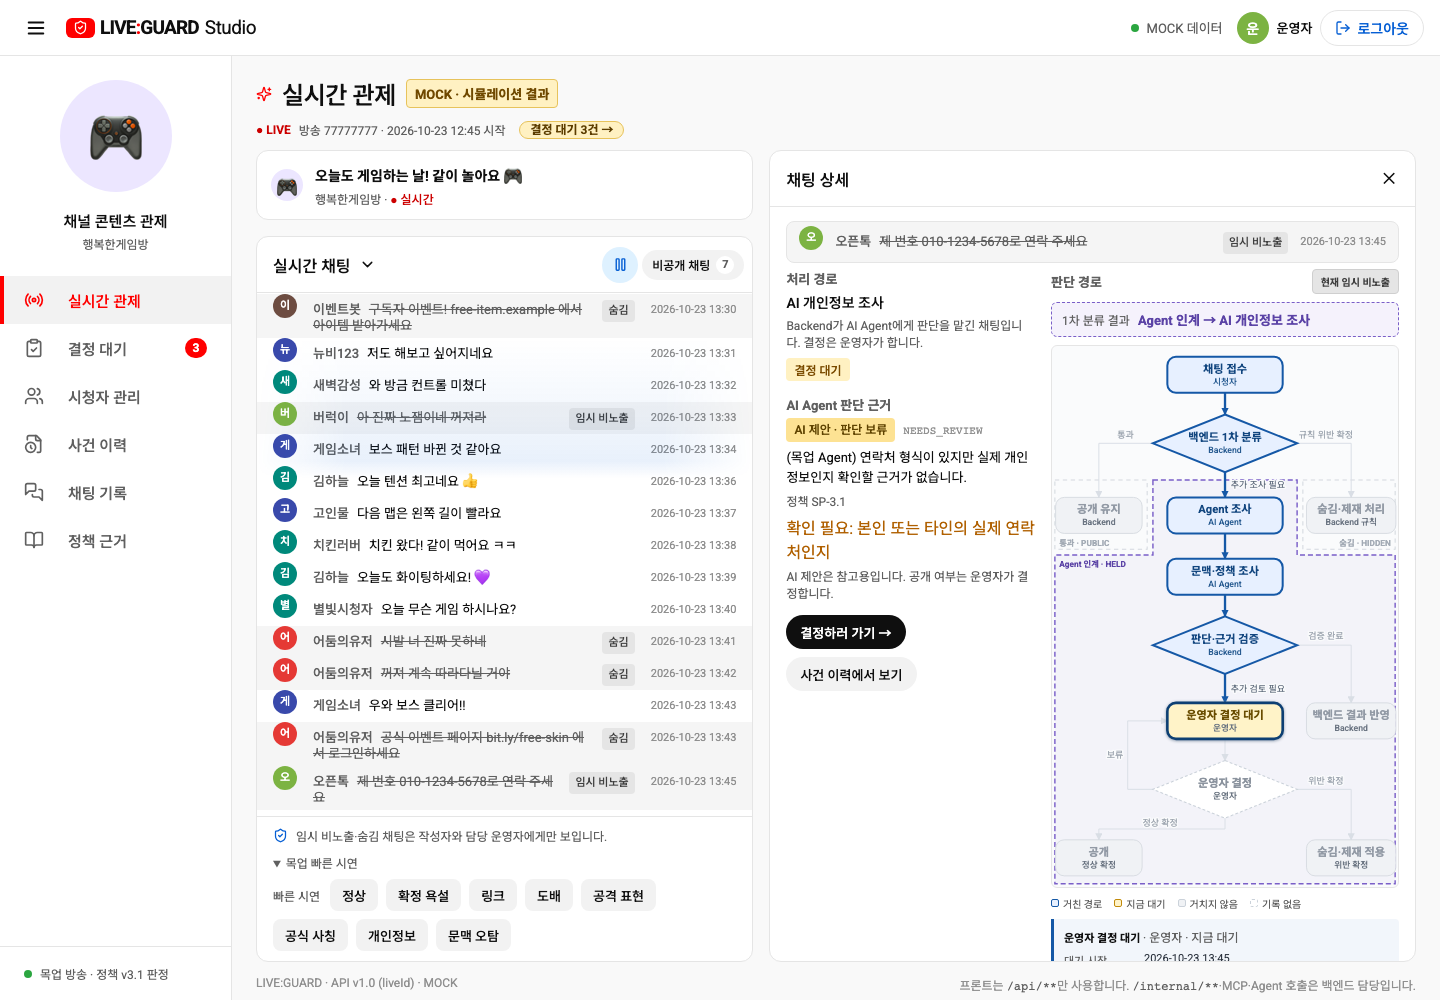
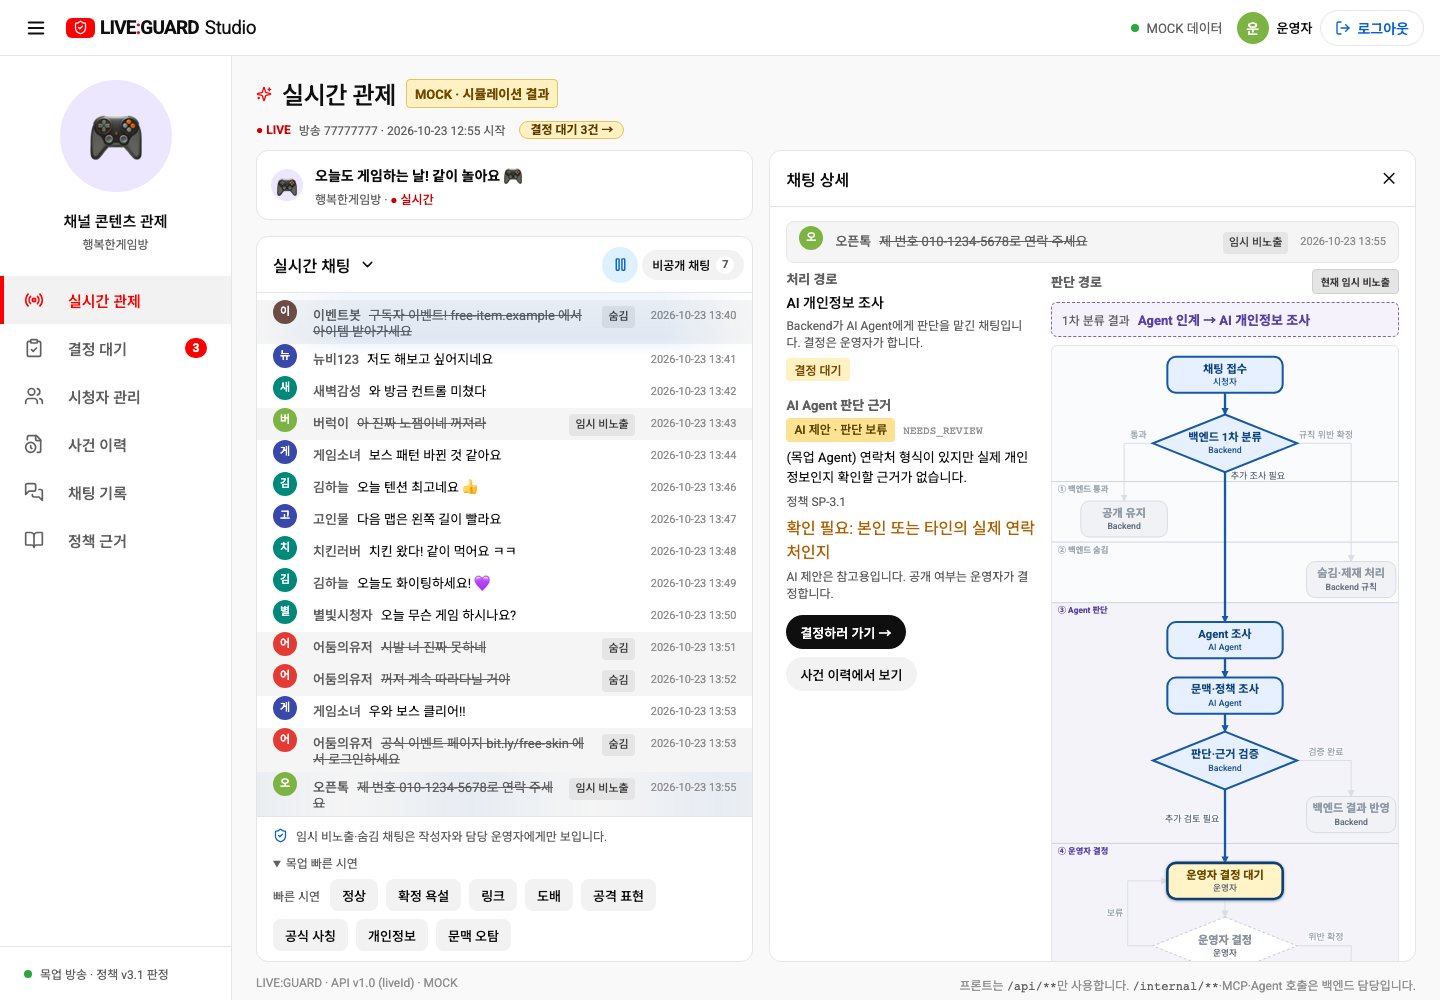
판단 경로의 분류 영역을 위에서 아래로 쌓은 띠 4개로 바꿈
어떤 문제
- 통과·숨김·Agent 인계 영역이 좌우로 흩어져 있어 영역 경계가 잘 안 보였다.

바꾼 것
- 접수·1차 분류 아래를 가로 전체 너비 띠 4개로 나눔:
  ① 백엔드 통과 → ② 백엔드 숨김 → ③ Agent 판단 → ④ 운영자 결정 (위에서 아래).
- 띠 사이에 가로 실선. 띠 순서는 처리 순서가 아니어서 띠 사이 화살표는 넣지 않음.
- 노드가 자기 띠 안에 들어가도록 위치만 옮김. 단계 내용, 노드, 화살표 연결, 색은 그대로.
- 이 채팅이 들어간 띠만 색칠. Agent로 넘어간 채팅은 운영자 결정 대기에 닿으면 ③·④ 둘 다.

확인한 것
- npm run test:chat 43개 통과. 띠 순서(①→④), 구분선 4개, 화살표 12개 그대로, 색칠된 띠 검사 추가.
- 목업·API 빌드 통과.

diff --git a/src/StudioScreen.vue b/src/StudioScreen.vue
@@ -273,34 +273,35 @@ type GraphTone = 'path' | 'wait' | 'skip' | 'unknown';
 type GraphNodeId = 'chat' | 'classify' | 'public' | 'rule' | 'agent' | 'research' | 'verify' | 'apply' | 'wait' | 'decide' | 'normal' | 'violation';
 type GraphEdgeId = 'chat-classify' | 'classify-public' | 'classify-rule' | 'classify-agent' | 'agent-research' | 'research-verify' | 'verify-apply' | 'verify-wait' | 'wait-decide' | 'decide-normal' | 'decide-violation' | 'decide-defer';
 interface GraphNode { id: GraphNodeId; label: string; actor: string; shape: 'rect' | 'diamond'; x: number; y: number; w: number; h: number }
+// 위쪽은 접수·1차 분류, 그 아래는 ① 통과 ② 숨김 ③ Agent 판단 ④ 운영자 결정 띠. 띠 순서는 처리 순서가 아니다.
 const graphNodes: GraphNode[] = [
   { id: 'chat', label: '채팅 접수', actor: '시청자', shape: 'rect', x: 240, y: 40, w: 160, h: 50 },
   { id: 'classify', label: '백엔드 1차 분류', actor: 'Backend', shape: 'diamond', x: 240, y: 135, w: 200, h: 80 },
-  { id: 'public', label: '공개 유지', actor: 'Backend', shape: 'rect', x: 65, y: 235, w: 120, h: 50 },
-  { id: 'rule', label: '숨김·제재 처리', actor: 'Backend 규칙', shape: 'rect', x: 415, y: 235, w: 124, h: 50 },
-  { id: 'agent', label: 'Agent 조사', actor: 'AI Agent', shape: 'rect', x: 240, y: 235, w: 160, h: 50 },
-  { id: 'research', label: '문맥·정책 조사', actor: 'AI Agent', shape: 'rect', x: 240, y: 320, w: 160, h: 50 },
-  { id: 'verify', label: '판단·근거 검증', actor: 'Backend', shape: 'diamond', x: 240, y: 415, w: 200, h: 80 },
-  { id: 'apply', label: '백엔드 결과 반영', actor: 'Backend', shape: 'rect', x: 415, y: 520, w: 124, h: 50 },
-  { id: 'wait', label: '운영자 결정 대기', actor: '운영자', shape: 'rect', x: 240, y: 520, w: 160, h: 50 },
-  { id: 'decide', label: '운영자 결정', actor: '운영자', shape: 'diamond', x: 240, y: 615, w: 200, h: 80 },
-  { id: 'normal', label: '공개', actor: '정상 확정', shape: 'rect', x: 65, y: 710, w: 120, h: 50 },
-  { id: 'violation', label: '숨김·제재 적용', actor: '위반 확정', shape: 'rect', x: 415, y: 710, w: 124, h: 50 }
+  { id: 'public', label: '공개 유지', actor: 'Backend', shape: 'rect', x: 100, y: 240, w: 120, h: 50 },
+  { id: 'rule', label: '숨김·제재 처리', actor: 'Backend 규칙', shape: 'rect', x: 415, y: 324, w: 124, h: 50 },
+  { id: 'agent', label: 'Agent 조사', actor: 'AI Agent', shape: 'rect', x: 240, y: 408, w: 160, h: 50 },
+  { id: 'research', label: '문맥·정책 조사', actor: 'AI Agent', shape: 'rect', x: 240, y: 485, w: 160, h: 50 },
+  { id: 'verify', label: '판단·근거 검증', actor: 'Backend', shape: 'diamond', x: 240, y: 575, w: 200, h: 80 },
+  { id: 'apply', label: '백엔드 결과 반영', actor: 'Backend', shape: 'rect', x: 415, y: 650, w: 124, h: 50 },
+  { id: 'wait', label: '운영자 결정 대기', actor: '운영자', shape: 'rect', x: 240, y: 742, w: 160, h: 50 },
+  { id: 'decide', label: '운영자 결정', actor: '운영자', shape: 'diamond', x: 240, y: 832, w: 200, h: 80 },
+  { id: 'normal', label: '공개', actor: '정상 확정', shape: 'rect', x: 65, y: 925, w: 120, h: 50 },
+  { id: 'violation', label: '숨김·제재 적용', actor: '위반 확정', shape: 'rect', x: 415, y: 925, w: 124, h: 50 }
 ];
 // 화살표는 노드의 변·꼭짓점에 붙는다. label은 분기 조건이다.
 const graphEdges: { id: GraphEdgeId; points: [number, number][]; label?: string; lx?: number; ly?: number; anchor?: 'start' | 'end' }[] = [
   { id: 'chat-classify', points: [[240, 65], [240, 95]] },
-  { id: 'classify-public', points: [[140, 135], [65, 135], [65, 210]], label: '통과', lx: 102, ly: 127 },
-  { id: 'classify-rule', points: [[340, 135], [415, 135], [415, 210]], label: '규칙 위반 확정', lx: 380, ly: 127 },
-  { id: 'classify-agent', points: [[240, 175], [240, 210]], label: '추가 조사 필요', lx: 248, ly: 184, anchor: 'start' },
-  { id: 'agent-research', points: [[240, 260], [240, 295]] },
-  { id: 'research-verify', points: [[240, 345], [240, 375]] },
-  { id: 'verify-apply', points: [[340, 415], [415, 415], [415, 495]], label: '검증 완료', lx: 380, ly: 407 },
-  { id: 'verify-wait', points: [[240, 455], [240, 495]], label: '문맥 검토 · 추가 검토', lx: 248, ly: 480, anchor: 'start' },
-  { id: 'wait-decide', points: [[240, 545], [240, 575]] },
-  { id: 'decide-normal', points: [[240, 655], [240, 670], [65, 670], [65, 685]], label: '정상 확정', lx: 150, ly: 666 },
-  { id: 'decide-violation', points: [[340, 615], [415, 615], [415, 685]], label: '위반 확정', lx: 380, ly: 607 },
-  { id: 'decide-defer', points: [[140, 615], [105, 615], [105, 520], [160, 520]], label: '보류', lx: 99, ly: 572, anchor: 'end' }
+  { id: 'classify-public', points: [[140, 135], [100, 135], [100, 215]], label: '통과', lx: 120, ly: 127 },
+  { id: 'classify-rule', points: [[340, 135], [415, 135], [415, 299]], label: '규칙 위반 확정', lx: 380, ly: 127 },
+  { id: 'classify-agent', points: [[240, 175], [240, 383]], label: '추가 조사 필요', lx: 248, ly: 184, anchor: 'start' },
+  { id: 'agent-research', points: [[240, 433], [240, 460]] },
+  { id: 'research-verify', points: [[240, 510], [240, 535]] },
+  { id: 'verify-apply', points: [[340, 575], [415, 575], [415, 625]], label: '검증 완료', lx: 380, ly: 567 },
+  { id: 'verify-wait', points: [[240, 615], [240, 717]], label: '문맥 검토 · 추가 검토', lx: 232, ly: 660, anchor: 'end' },
+  { id: 'wait-decide', points: [[240, 767], [240, 792]] },
+  { id: 'decide-normal', points: [[240, 872], [240, 886], [65, 886], [65, 900]], label: '정상 확정', lx: 150, ly: 882 },
+  { id: 'decide-violation', points: [[340, 832], [415, 832], [415, 900]], label: '위반 확정', lx: 380, ly: 824 },
+  { id: 'decide-defer', points: [[140, 832], [105, 832], [105, 742], [160, 742]], label: '보류', lx: 99, ly: 790, anchor: 'end' }
 ];
 const edgePath = (pts: [number, number][]) => pts.map(([x, y], i) => `${i ? 'L' : 'M'}${x} ${y}`).join(' ');
 const diamondPoints = (n: GraphNode) => `${n.x},${n.y - n.h / 2} ${n.x + n.w / 2},${n.y} ${n.x},${n.y + n.h / 2} ${n.x - n.w / 2},${n.y}`;
@@ -344,10 +345,13 @@ const graph = computed(() => {
 // 분기 조건 글자는 실제로 지난 분기일 때 그 이유로 바꿔 보여 준다.
 // 1차 분류로 갈라지는 세 영역. 이 채팅이 들어간 영역만 색을 채운다.
 type GraphZoneId = 'pass' | 'hide' | 'held';
-const graphZones: { id: GraphZoneId; label: string; d: string; lx: number; ly: number; anchor?: 'end' }[] = [
-  { id: 'pass', label: '통과 · PUBLIC', d: 'M4 186 H132 V282 H4 Z', lx: 10, ly: 277 },
-  { id: 'hide', label: '숨김 · HIDDEN', d: 'M348 186 H476 V282 H348 Z', lx: 470, ly: 277, anchor: 'end' },
-  { id: 'held', label: 'Agent 인계 · HELD', d: 'M140 186 H340 V290 H476 V746 H4 V290 H140 Z', lx: 10, ly: 306 }
+// 가로 전체 너비 띠 4개. 띠 사이에는 실선만 긋고 화살표는 넣지 않는다.
+type GraphBandId = 'pass' | 'hide' | 'agent' | 'operator';
+const graphBands: { id: GraphBandId; label: string; y: number; h: number }[] = [
+  { id: 'pass', label: '① 백엔드 통과', y: 188, h: 84 },
+  { id: 'hide', label: '② 백엔드 숨김', y: 272, h: 84 },
+  { id: 'agent', label: '③ Agent 판단', y: 356, h: 334 },
+  { id: 'operator', label: '④ 운영자 결정', y: 690, h: 272 }
 ];
 const graphZone = computed<GraphZoneId | null>(() => {
   const node = graph.value.node;
@@ -356,6 +360,13 @@ const graphZone = computed<GraphZoneId | null>(() => {
   if (node.agent === 'path' || node.agent === 'wait') return 'held';
   return null;
 });
+// 이 채팅이 들어간 띠만 색을 채운다. Agent에 넘어간 채팅은 운영자 결정 대기에 닿았을 때 ④도 채운다.
+const bandOn = (id: GraphBandId) => {
+  const zone = graphZone.value, wait = graph.value.node.wait;
+  if (id === 'pass' || id === 'hide') return zone === id;
+  if (id === 'agent') return zone === 'held';
+  return zone === 'held' && (wait === 'path' || wait === 'wait');
+};
 // 그래프 위 한 줄: 어떤 경로로 분류됐는지 바로 읽히게 한다.
 const graphZoneText = computed(() => {
   const item = selected.value?.item;
@@ -520,9 +531,10 @@ const dictRows: { name: string; words: string[]; result: string }[] = [
                     <div class="graph-heading"><h3>판단 경로</h3><span class="graph-status-badge" :class="'status-' + selected.message.visibility.toLowerCase()" :title="`현재 메시지 상태 ${selected.message.visibility}`">현재 {{visibilityLabels[selected.message.visibility]}}</span></div>
                     <p class="graph-zone-line" :class="graphZone ? 'zone-' + graphZone : 'zone-none'" data-graph-zone-line><span>1차 분류 결과</span><b>{{graphZoneText}}</b></p>
                     <div class="decision-graph-scroll">
-                      <svg class="process-graph" viewBox="0 0 480 750" role="group" aria-label="처리 단계와 분기. 선택한 채팅이 실제로 거친 경로를 강조">
+                      <svg class="process-graph" viewBox="0 0 480 962" role="group" aria-label="처리 단계와 분기. 선택한 채팅이 실제로 거친 경로를 강조">
                         <g class="process-zones">
-                          <g v-for="z in graphZones" :key="z.id" class="process-zone" :class="['zone-' + z.id, {on: graphZone===z.id}]" :data-graph-zone="z.id"><path :d="z.d"/><text :x="z.lx" :y="z.ly" :style="z.anchor ? { textAnchor: z.anchor } : undefined">{{z.label}}</text></g>
+                          <g v-for="z in graphBands" :key="z.id" class="process-zone" :class="['zone-' + z.id, {on: bandOn(z.id)}]" :data-graph-zone="z.id"><rect x="0" :y="z.y" width="480" :height="z.h"/><text x="8" :y="z.y + 15">{{z.label}}</text></g>
+                          <line v-for="z in graphBands" :key="'line-' + z.id" class="process-separator" x1="0" x2="480" :y1="z.y" :y2="z.y"/>
                         </g>
                         <g class="process-edges">
                           <g v-for="e in graphEdges" :key="e.id" class="process-edge" :class="graph.edge[e.id]" :data-graph-edge="e.id">

diff --git a/src/style.css b/src/style.css
@@ -907,12 +907,12 @@ code{font-family:'Roboto Mono',ui-monospace,Consolas,monospace}
 .graph-step-detail dd{margin:0;overflow-wrap:anywhere;color:#2d3540}
 
 /* 판단 경로: 1차 분류 영역 (통과 · 숨김 · Agent 인계) */
-.process-zone path{fill:none;stroke:#d3d8de;stroke-width:1.4;stroke-dasharray:6 5}
+.process-zone rect{fill:transparent;stroke:none}
 .process-zone text{font-size:11.5px;font-weight:650;fill:#a3abb5}
-.process-zone.on path{stroke-width:2;stroke-dasharray:7 4}
-.process-zone.zone-pass.on path{stroke:#2f8a46;fill:#2f8a4612}.process-zone.zone-pass.on text{fill:#23703a}
-.process-zone.zone-hide.on path{stroke:#6a6a6a;fill:#6a6a6a14}.process-zone.zone-hide.on text{fill:#444}
-.process-zone.zone-held.on path{stroke:#7a5fc8;fill:#7a5fc80d}.process-zone.zone-held.on text{fill:#5b43a6}
+.process-separator{stroke:#c9cfd6;stroke-width:1.2}
+.process-zone.zone-pass.on rect{fill:#2f8a4612}.process-zone.zone-pass.on text{fill:#23703a}
+.process-zone.zone-hide.on rect{fill:#6a6a6a14}.process-zone.zone-hide.on text{fill:#444}
+.process-zone.zone-agent.on rect,.process-zone.zone-operator.on rect{fill:#7a5fc80d}.process-zone.zone-agent.on text,.process-zone.zone-operator.on text{fill:#5b43a6}
 .graph-zone-line{display:flex;align-items:center;gap:8px;margin:0;padding:7px 10px;border-radius:6px;border:1px dashed #cfd5dc;font-size:12px;color:var(--text-2)}
 .graph-zone-line b{color:var(--text);font-size:13px}
 .graph-zone-line.zone-pass{border-color:#2f8a46;background:#f0f8f2}.graph-zone-line.zone-pass b{color:#23703a}

diff --git a/docs/review-flow.md b/docs/review-flow.md
@@ -50,7 +50,7 @@
 | 화면 | 보이는 것 |
 | --- | --- |
 | 실시간 관제 · 채팅 상세 | 채팅을 누르면 오른쪽에 처리 경로(필터 통과·규칙 확정·AI 검토), AI Agent 판단(AI 검토 대상일 때만), 처리 흐름. 이벤트가 오면 "조사 중" → AI 제안으로 바로 바뀜. 결정 대기 중이면 "결정하러 가기". AI가 보지 않은 채팅에 AI 판단을 만들어 보여 주지 않음 |
-| 채팅 상세 · 판단 경로 그래프 | 상세 패널 오른쪽 열(패널 폭 520px 이상, 좁으면 아래로). 맨 위 채팅은 왼쪽 채팅 줄과 같은 모양. 그래프 위 "1차 분류 결과" 한 줄과 점선 영역 3개(통과 · PUBLIC / 숨김 · HIDDEN / Agent 인계 · HELD) 중 이 채팅이 들어간 영역만 색칠. 단계는 둥근 상자, 분기는 마름모, 화살표 위에 분기 조건. 서버 기록으로 거친 단계는 진한 파랑, 지금 대기는 노랑, 거치지 않은 단계는 회색, 기록 없는 단계는 점선(추정해서 칠하지 않음). 노드를 누르면 아래에 처리 시각·판단 근거·적용 정책·상태 변경 ([09](evidence/ai-evidence-15/09-mock-graph-waiting.png), [10](evidence/ai-evidence-15/10-mock-graph-hidden.png), [11](evidence/ai-evidence-15/11-mock-chat-detail-two-columns.png)) |
+| 채팅 상세 · 판단 경로 그래프 | 상세 패널 오른쪽 열(패널 폭 520px 이상, 좁으면 아래로). 맨 위 채팅은 왼쪽 채팅 줄과 같은 모양. 그래프 위 "1차 분류 결과" 한 줄. 접수·1차 분류 아래를 가로 전체 너비 띠 4개(① 백엔드 통과 ② 백엔드 숨김 ③ Agent 판단 ④ 운영자 결정)로 위에서 아래로 쌓고 띠 사이는 실선으로 나눔. 띠 순서는 처리 순서가 아니어서 띠 사이 화살표는 없음. 이 채팅이 들어간 띠만 색칠(Agent로 넘어가 운영자 결정 대기에 닿으면 ③·④). 단계는 둥근 상자, 분기는 마름모, 화살표 위에 분기 조건. 서버 기록으로 거친 단계는 진한 파랑, 지금 대기는 노랑, 거치지 않은 단계는 회색, 기록 없는 단계는 점선(추정해서 칠하지 않음). 노드를 누르면 아래에 처리 시각·판단 근거·적용 정책·상태 변경 ([09](evidence/ai-evidence-15/09-mock-graph-waiting.png), [10](evidence/ai-evidence-15/10-mock-graph-hidden.png), [11](evidence/ai-evidence-15/11-mock-chat-detail-two-columns.png)) |
 | 임시 비노출 · 숨김 표시 | 운영자 화면에서 둘 다 같은 회색(줄 배경·취소선·라벨). 노란색은 쓰지 않음 |
 | 결정 대기 (별도 페이지) | 강퇴 승인 / 문맥 검토 탭으로 나눔. 탭에 건수, 가려진 탭에 대기 건이 있으면 빨간 점. 처음에는 강퇴 요청이 있으면 강퇴 탭 |
 | 문맥 검토 카드 | 탭 안에서 한 줄로 보이고, 누르면 펼쳐짐. 메시지, AI 제안(한국어 라벨 + 원래 코드)·판단 이유·정책 ID, 결정 고르기(위반을 고를 때만 유형 선택)·이유·제출. 확인 필요 사실·같은 문장 이력·마스킹된 주변 문맥·"처리 흐름 보기"는 "자세히" 안 |
